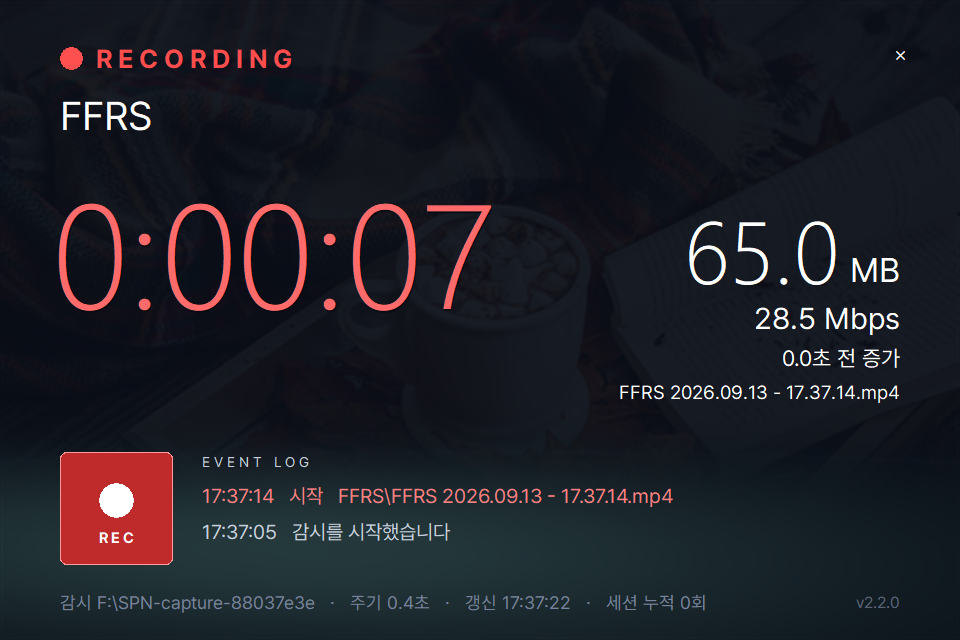
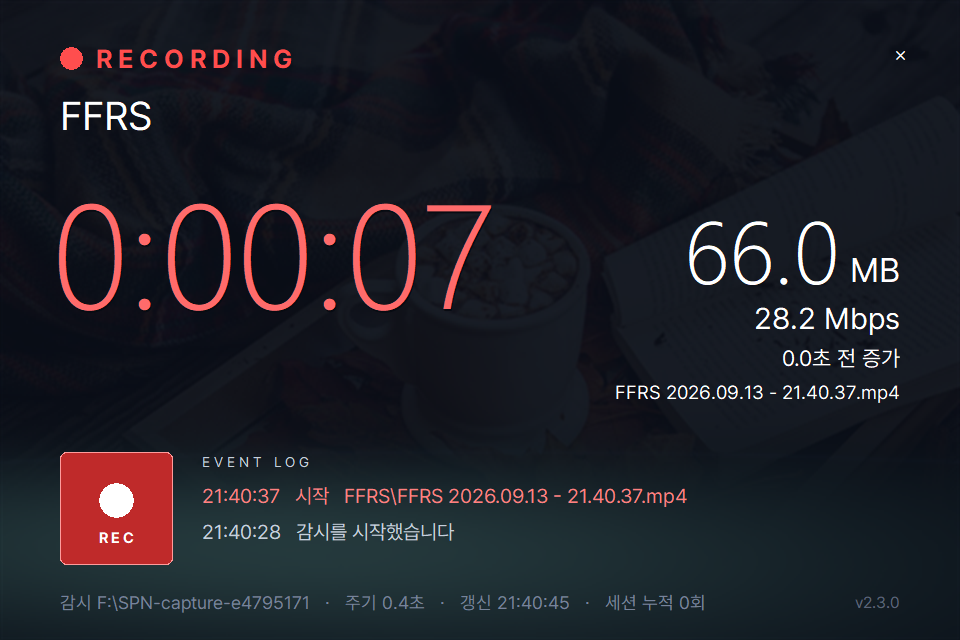
2.3.0: 윈도우 시작 시 실행과 시계 정리
트레이 메뉴에 `윈도우 시작 시 실행` 을 넣었습니다. 켜면 다음 로그인부터 자동으로
실행되고 다시 누르면 해제됩니다. 등록은 현재 사용자 계정에만 남습니다.

시계와 초, 기온의 글꼴을 Pretendard 로 통일했습니다. 시계는 날짜와 왼쪽을 맞추고,
시·분 사이 콜론만 매초 깜빡이며 초는 계속 보입니다. 초는 시계 오른쪽에서 큰 숫자와
같은 베이스라인에 앉습니다. 글자 상자 가운데에 맞추면 숫자에 없는 디센더 자리만큼
아래로 떠 보이기 때문입니다.

달 사진을 밝게 하고 어두운 면을 덮는 검정을 옅게 해, 초승달 무렵에도 달의 윤곽과
표면 무늬가 남습니다. 왼쪽 위의 계절 이름은 없앴고, 계절이 바뀌면 따로 알리지 않고
배경 사진이 달라집니다. 월페이퍼 오른쪽 아래에도 현재 버전이 보입니다.

diff --git a/index.html b/index.html
@@ -298,6 +298,7 @@ footer .links { display: flex; gap: 18px; flex: none; }
   .reveal { opacity: 1; translate: 0 0; }
 }
 </style>
+<noscript><style>.reveal { opacity: 1; translate: 0 0; }</style></noscript>
 </head>
 <body>
 
@@ -427,7 +428,7 @@ footer .links { display: flex; gap: 18px; flex: none; }
       <article class="cell">
         <div class="cell-top"><svg class="icon"><use href="#i-clock"/></svg><span class="no">04</span></div>
         <h3>시계와 날씨</h3>
-        <p>큰 시계와 날짜, 요일에 더해 기온과 날씨 아이콘, 최고·최저 기온, 습도, 강수 확률을 띄웁니다. 날씨는 Open-Meteo 에서 받으며 API 키가 필요 없습니다.</p>
+        <p>Pretendard로 맞춘 큰 시계와 날짜, 요일에 더해 기온과 오늘 달, 날씨 정보를 띄웁니다. 콜론만 매초 깜빡이고 초 숫자는 계속 표시됩니다. 달은 작은 화면에서도 윤곽이 보입니다. 날씨는 Open-Meteo 에서 받으며 API 키가 필요 없습니다.</p>
       </article>
       <article class="cell">
         <div class="cell-top"><svg class="icon"><use href="#i-music"/></svg><span class="no">05</span></div>
@@ -442,7 +443,7 @@ footer .links { display: flex; gap: 18px; flex: none; }
       <article class="cell">
         <div class="cell-top"><svg class="icon"><use href="#i-season"/></svg><span class="no">07</span></div>
         <h3>사계절 사진과 시간대 색</h3>
-        <p>봄 벚꽃, 여름 바다, 가을 코코아, 겨울 서리가 달력을 따라 바뀌고 심야부터 저녁까지 화면 색이 함께 물듭니다. 사진은 실행 파일에 들어 있어 인터넷이 없어도 나옵니다.</p>
+        <p>계절이 바뀌면 배경 사진도 조용히 바뀌고, 심야부터 저녁까지 화면 색이 함께 물듭니다. 사진은 실행 파일에 들어 있어 인터넷이 없어도 나옵니다.</p>
       </article>
       <article class="cell">
         <div class="cell-top"><svg class="icon"><use href="#i-monitor"/></svg><span class="no">08</span></div>
@@ -452,7 +453,7 @@ footer .links { display: flex; gap: 18px; flex: none; }
       <article class="cell">
         <div class="cell-top"><svg class="icon"><use href="#i-tray"/></svg><span class="no">09</span></div>
         <h3>트레이에서 계속 실행</h3>
-        <p>창을 닫으면 알림 영역으로 들어가 녹화 감시만 이어 갑니다. 감시 폴더와 표시할 모니터, 항상 위, 알림음은 환경설정 창에서 바로 바꿉니다.</p>
+        <p>창을 닫으면 알림 영역으로 들어가 녹화 감시만 이어 갑니다. 트레이 메뉴에서 ‘윈도우 시작 시 실행’을 체크하면 로그인 후 자동으로 켜집니다. 감시 폴더와 모니터는 환경설정에서 바꿉니다.</p>
       </article>
     </div>
   </div>
@@ -544,7 +545,7 @@ footer .links { display: flex; gap: 18px; flex: none; }
     <span>ShadowPlay Notifier</span>
     <span>Windows 10 · 11</span>
     <span>MIT License</span>
-    <span class="last" id="ver">v2.2.0</span>
+    <span class="last" id="ver">v2.3.0</span>
   </div>
   <footer>
     <div class="rows">
@@ -607,7 +608,7 @@ fetch('https://api.github.com/repos/deuxdoom/Shadowplay-Notifier/releases/latest
       document.getElementById('ver').textContent = t.charAt(0) === 'v' ? t : 'v' + t;
     }
 
-    var exe = (d.assets || []).filter(function (a) { return /\.exe$/i.test(a.name || ''); })[0];
+    var exe = (d.assets || []).filter(function (a) { return a.name === 'ShadowPlayNotifier.exe'; })[0];
     if (!exe) return;
 
     var size = document.getElementById('dlsize');

diff --git a/README.md b/README.md
@@ -57,7 +57,9 @@
 - 🕒 **월페이퍼 화면** — 녹화를 기다리는 동안 큰 시계와 날짜, 요일, 날씨를
   보여 줍니다. 기온과 날씨 아이콘, 오늘 최고·최저 기온, 습도, 강수 확률이
   함께 나옵니다. 960×640에서도 잘 읽히도록 날짜와 날씨를 크게 표시하고,
-  날씨 아이콘에는 느린 움직임을 더했습니다.
+  날씨 아이콘에는 느린 움직임을 더했습니다. 시계와 초, 기온은 Pretendard로
+  통일했습니다. 시계는 날짜와 왼쪽을 맞춰 더 크게 표시하며, 시·분 사이 콜론만
+  깜빡입니다. 초는 계속 표시하면서 숫자만 바뀝니다. 오른쪽 아래에는 버전이 나옵니다.
 - 🎵 **재생 중인 음악** — Spotify 에서 듣고 있는 곡과 아티스트, 앨범 커버를
   보여 줍니다. 로그인이나 계정 연결이 필요 없습니다. iTunes 와 Deezer 결과의
   곡명과 아티스트가 실제 재생 정보와 맞는지 확인한 뒤 커버를 쓰며, 검색에 없는
@@ -67,16 +69,18 @@
   옅은 반사로 그립니다. 소리를 녹음하거나 저장하지 않고 세기만 잽니다. 소리가
   멈추면 파형도 조용히 가라앉습니다.
 - 🌙 **오늘 달** — 날씨 아래에 지금 달이 뜹니다. 실제 달 사진에 그날의 그늘을
-  덮어 그리므로 초승달인지 보름달인지 한눈에 알 수 있습니다.
+  덮어 그리므로 초승달인지 보름달인지 한눈에 알 수 있습니다. 사진은 환하게
+  보정하고 그림자는 옅게 해 작은 화면에서도 달의 윤곽과 표면 무늬가 보입니다.
 - 🌸 **사계절 사진 월페이퍼** — 봄(3~5월)은 벚꽃 가지, 여름(6~8월)은 야자수가
   늘어선 바다, 가을(9~11월)은 담요 위에 놓인 코코아와 펼친 책, 겨울(12~2월)은
   서리가 피어난 얼음 구슬입니다. 달력의 계절을 자동으로 따라가며, 사진은 EXE에
-  포함되어 인터넷 연결이 없어도 표시됩니다.
+  포함되어 인터넷 연결이 없어도 표시됩니다. 계절 이름은 따로 띄우지 않고
+  계절이 바뀌면 배경 사진이 조용히 달라집니다.
 - 🌤 **시간대마다 달라지는 색** — 심야와 새벽에는 어두운 남색, 오전에는 낮은
   해의 금빛, 낮에는 맑고 환한 빛, 오후에는 노을이 물드는 금빛, 저녁에는
   어스름한 보랏빛입니다. 낮은 정오부터 오후 4시 무렵까지 이어지고 저녁 8시에
   어스름이 내립니다. 색과 농도를 화면 전체에 똑같이 입히므로 얼룩이 지지
-  않으며, 화면 왼쪽 위에 계절과 시간대 이름을 적습니다.
+  않으며, 화면 왼쪽 위에는 시간대 이름만 적습니다.
 - 🌧 **잠깐씩 찾아오는 날씨 연출** — 비 오는 날에는 유리 위를 미끄러지는
   물방울, 눈 오는 날에는 느린 눈송이, 맑은 밤에는 유성이 나타났다가 사라집니다.
   배경이 밝으면 짙게, 어두우면 환하게 칠해 어느 시간대에도 눈에 들어옵니다.
@@ -89,6 +93,8 @@
   창을 다시 열고, 환경설정과 GitHub 페이지를 열거나 프로그램을 종료할 수
   있습니다. 창을 숨기면 월페이퍼 렌더링과 음악·날씨 조회를 쉬고 녹화 감시는
   계속합니다.
+- 🚀 **윈도우 시작 시 실행** — 트레이 아이콘을 오른쪽 클릭해 `윈도우 시작 시 실행`을
+  체크하면 다음 로그인부터 자동으로 실행됩니다. 다시 누르면 해제됩니다.
 
 ---
 
@@ -167,7 +173,7 @@ Copyright (c) 2026 deuxdoom
 [Unsplash License](https://unsplash.com/license)를 따릅니다. 사진을 갈아 끼우는
 방법은 [사진 출처](assets/wallpapers/README.md)에 적어 두었습니다.
 
-화면에 쓰는 글꼴은 [Pretendard](https://github.com/orioncactus/pretendard) 와
-[JetBrains Mono](https://github.com/JetBrains/JetBrainsMono) 이며, 둘 다
-SIL Open Font License 1.1 을 따릅니다. 글꼴은 이 프로그램이 돌아가는 동안에만
+앱에 포함한 글꼴은 [Pretendard](https://github.com/orioncactus/pretendard)입니다.
+소개 페이지에는 [JetBrains Mono](https://github.com/JetBrains/JetBrainsMono)도 씁니다.
+둘 다 SIL Open Font License 1.1을 따릅니다. 앱 글꼴은 프로그램이 돌아가는 동안에만
 등록되고 윈도우에 설치되지 않습니다.

diff --git a/CHANGELOG.md b/CHANGELOG.md
@@ -3,6 +3,41 @@
 이 파일의 형식은 [Keep a Changelog 1.1.0](https://keepachangelog.com/ko/1.1.0/)을
 따르며, 버전은 [유의적 버전 2.0.0](https://semver.org/lang/ko/)을 따릅니다.
 
+## [2.3.0] - 2026-09-13
+
+작은 보조 모니터에서 달과 시계를 더 또렷하게 볼 수 있도록 다듬었습니다.
+계절이 바뀌면 이름표 없이 배경 사진이 자연스럽게 달라집니다.
+
+### 새 기능
+
+- 트레이 메뉴에 `윈도우 시작 시 실행` 체크 항목을 추가했습니다. 켜면 다음
+  로그인부터 자동으로 실행되며, 다시 누르면 해제됩니다.
+- 월페이퍼 오른쪽 아래에도 녹화 감시 화면과 같은 위치에 작은 버전을 표시합니다.
+
+### 변경
+
+- 달 사진의 중간 밝기를 높이고, 어두운 면을 덮는 검정의 불투명도를 90%에서
+  65%로 낮췄습니다. 초승달 무렵에도 달의 윤곽과 표면 무늬가 남습니다.
+- 월페이퍼의 시계와 초, 기온 글꼴을 Pretendard로 통일했습니다.
+- 시계를 날짜와 왼쪽 정렬하고 더 크게 키웠습니다. 초 숫자는 24px에서 30px로
+  키워 시계 아래 오른쪽에 표시합니다.
+- 시·분 사이 콜론만 1초 주기로 깜빡입니다. 초는 계속 표시하면서 숫자만 바뀝니다.
+
+### 수정
+
+- 시계의 콜론을 숫자 높이의 가운데에 맞추고, 숫자가 넓은 시각에도 초와 날씨가
+  겹치지 않도록 간격을 조정했습니다.
+- 소개 페이지에서 JavaScript가 꺼져 있어도 본문과 스크린샷을 볼 수 있습니다.
+
+### 삭제
+
+- 왼쪽 위의 계절 이름과 구분선을 없앴습니다. 시간대 이름은 그대로 표시하며,
+  계절 배경은 달력에 따라 자동으로 바뀝니다.
+
+[2.3.0]: https://github.com/deuxdoom/Shadowplay-Notifier/releases/tag/2.3.0
+
+---
+
 ## [2.2.0] - 2026-09-13
 
 월페이퍼를 계절 사진 위에 다시 그렸습니다. 봄부터 겨울까지 네 장의 풍경이
